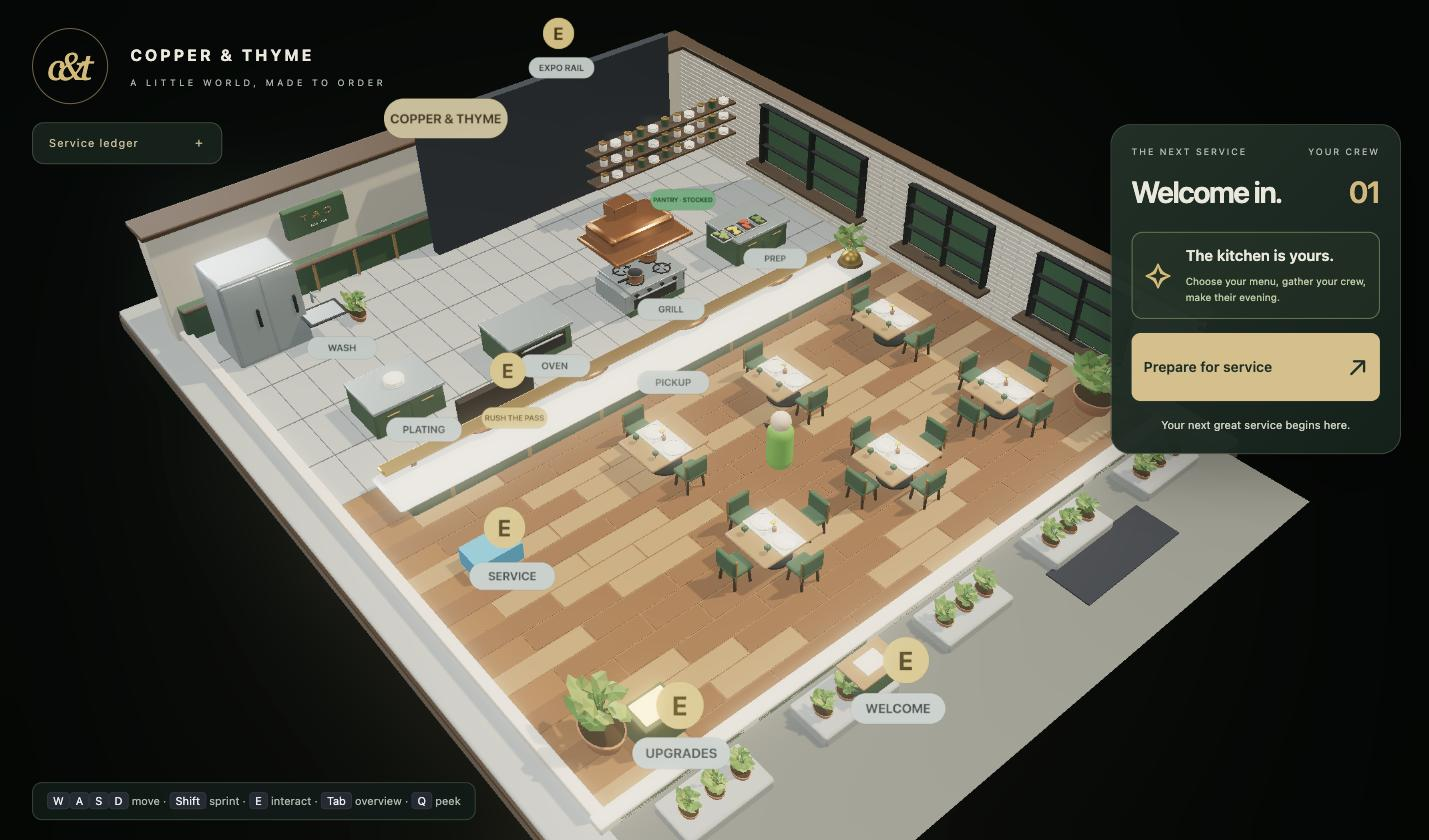
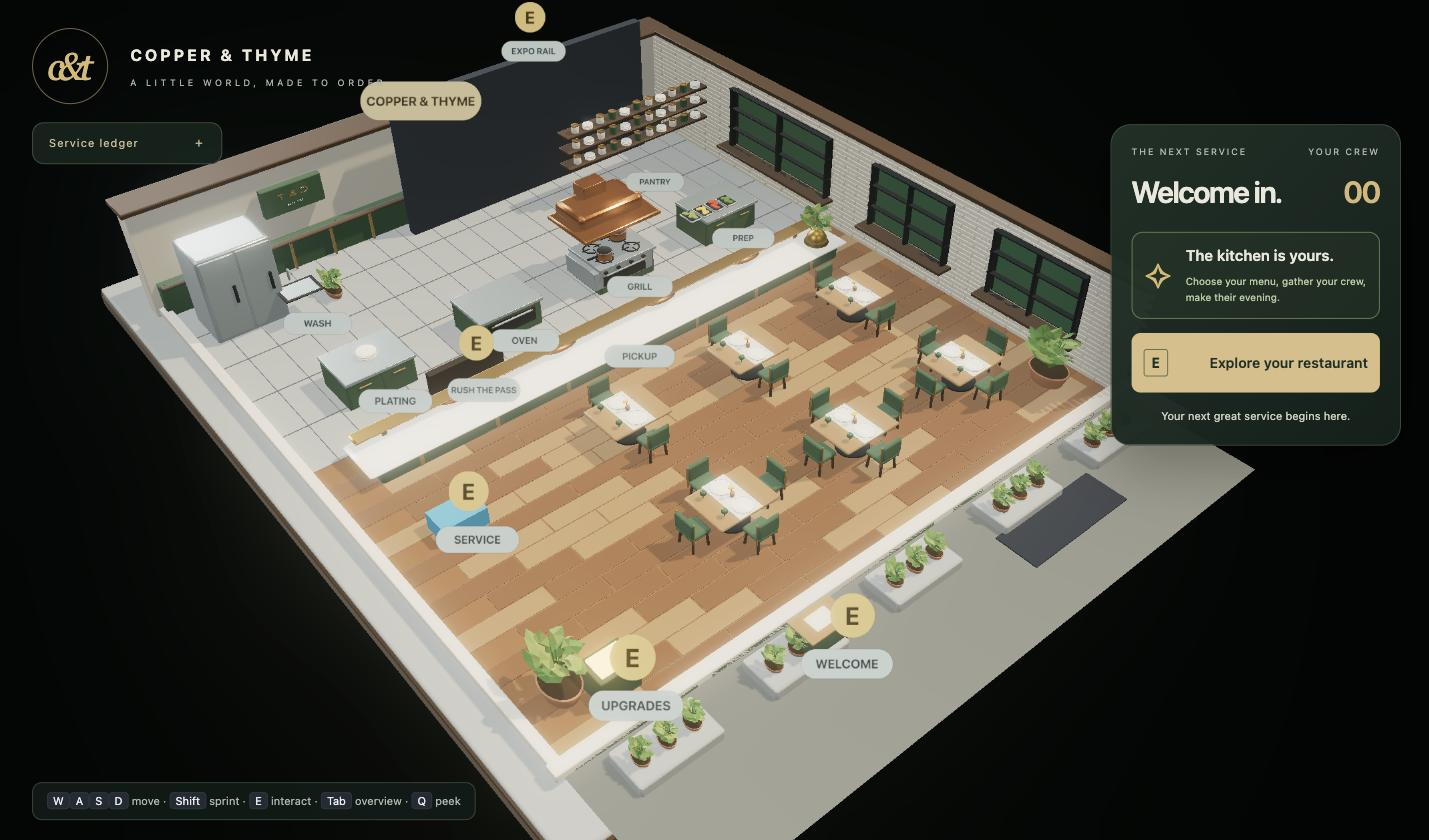
STORY-059: fix shadow-frustum math, bloom-resize units, and Tab overlay overlap
Three correctness fixes found on review of the initial pass:

1. Shadow camera frustum bounds are in the light's own (rotated) view
   space, not world x/z — keyLight sits at (-12, 18, -6) aiming at the
   origin, so its basis is off-axis in plan. The first attempt
   (left:-11/right:11/top:14/bottom:-16) was derived by treating those
   bounds as world-aligned and clipped the real floor's far corners.
   Re-derived the actual view-space projection of the floor's 4 corners
   (worst case ~±14.8 on x, ~±10.8 at floor level / ~+13.7 for a 5m-tall
   prop on top/bottom) and retightened to left:-16/right:16/top:14/
   bottom:-16 — safely covers the real floor with margin, still ~1.5x
   the shadow-map texel density of the original ±18/+20/-20.

2. UnrealBloomPass sizing: EffectComposer.addPass() immediately resets
   a newly-added pass to the composer's full effective resolution
   (container size * devicePixelRatio), so the constructor's halved
   size was being silently overwritten the moment addPass(bloomPass)
   ran, before the first frame — it only "worked" because the initial
   ResizeObserver callback happened to land first. Now explicitly
   re-applies the halved size right after addPass. Also fixed a units
   mismatch in handleResize: it was passing raw CSS-pixel width/height
   instead of the pixelRatio-scaled basis EffectComposer.setSize()
   actually uses internally, which under-cut the intended halving.
[…]

diff --git a/client/src/game/SceneManager.ts b/client/src/game/SceneManager.ts
@@ -47,11 +47,15 @@ export class SceneManager {
     this.results = results;
     this.active = this.restaurant.scene;
 
-    // STORY-059: native MSAA (`antialias: true`) and a full-resolution `UnrealBloomPass` were
-    // running together every frame — largely wasted cost, since the bloom pass's own blur
-    // already hides the AA seams it would otherwise smooth. Antialiasing now comes only from the
-    // composer's `OutputPass` + the softness of the bloom pass itself; see the bloom pass
-    // construction below for the matching resolution cut.
+    // STORY-059: `antialias: true` on the base renderer was pure wasted cost, not a real
+    // trade-off — this whole scene ALWAYS renders through `EffectComposer` below (`start()`
+    // calls `composer.render()`, never `renderer.render()` directly), and `EffectComposer`'s own
+    // render targets are plain `WebGLRenderTarget`s created with no multisample `samples` option
+    // (see its constructor: `new WebGLRenderTarget(width, height, { type: HalfFloatType })`).
+    // `RenderPass` draws the scene into that non-multisampled target, so the canvas's own MSAA
+    // (what `antialias: true` buys) was never actually applied to the composited output in the
+    // first place — this flag was silently inert the whole time. Turning it off is a free win,
+    // not a quality trade.
     this.renderer = new THREE.WebGLRenderer({ antialias: false });
     configureRestaurantRenderer(this.renderer, this.restaurant.scene);
     // STORY-059: was capped at 2 — every rendering cost above (shadow map, bloom, base shading)
@@ -94,23 +98,31 @@ export class SceneManager {
     // A restrained threshold keeps practical lights and authored Glow materials luminous while
     // leaving UI sprites and most matte surfaces crisp. The pass is intentionally subtle so the
     // scene gains the warm AAA catchlight from the reference without becoming hazy.
-    // STORY-059: `UnrealBloomPass` already halves whatever resolution it's given for its own
-    // internal mip chain (see its constructor), so passing the full container size here meant
-    // the blur chain's brightest render target was already running at half-container. Passing
-    // HALF the container size instead drops that internal target to a quarter of the container's
-    // area — ~4x less shader work for the whole 5-mip blur/composite chain — and the effect stays
-    // visually identical because bloom is a soft, low-frequency effect by nature: the extra
-    // downsample is invisible once blurred back up. `strength`/`radius`/`threshold`
-    // (0.28/0.48/0.84) are UNCHANGED — those control the look, this only cuts cost.
-    this.bloomPass = new UnrealBloomPass(
-      new THREE.Vector2(container.clientWidth / 2, container.clientHeight / 2),
-      0.28,
-      0.48,
-      0.84,
+    // STORY-059: `UnrealBloomPass` already halves whatever `resolution` it's given for its own
+    // internal mip chain (see its constructor: `resx = Math.round(resolution.x / 2)`), so its
+    // brightest render target was already running at half of whatever we pass in. Passing HALF
+    // of `EffectComposer`'s own effective resolution (`container size * devicePixelRatio` — the
+    // SAME basis `EffectComposer.setSize` uses internally, see `handleResize` below) drops that
+    // internal target to a quarter of the composer's effective area — ~4x less shader work for
+    // the whole 5-mip blur/composite chain — and stays visually identical because bloom is a
+    // soft, low-frequency effect by nature: the extra downsample is invisible once blurred back
+    // up. `strength`/`radius`/`threshold` (0.28/0.48/0.84) are UNCHANGED — those control the
+    // look, this only cuts cost.
+    const bloomResolution = new THREE.Vector2(
+      (container.clientWidth * this.renderer.getPixelRatio()) / 2,
+      (container.clientHeight * this.renderer.getPixelRatio()) / 2,
     );
+    this.bloomPass = new UnrealBloomPass(bloomResolution, 0.28, 0.48, 0.84);
     this.composer.addPass(this.renderPass);
     this.composer.addPass(this.bloomPass);
     this.composer.addPass(new OutputPass());
+    // `EffectComposer.addPass` immediately calls `pass.setSize(effectiveWidth, effectiveHeight)`
+    // on whatever's just been added — using the composer's FULL effective resolution, which
+    // would silently override the halved size passed to the constructor above the moment
+    // `addPass(this.bloomPass)` ran, before this class's own `ResizeObserver` ever fires. Re-set
+    // it explicitly right here so the cost cut is in effect from the very first rendered frame,
+    // not only after whatever async timing the initial resize observation happens to land on.
+    this.bloomPass.setSize(bloomResolution.x, bloomResolution.y);
 
     this.resizeObserver = new ResizeObserver(() => this.handleResize());
     this.resizeObserver.observe(container);
@@ -130,11 +142,14 @@ export class SceneManager {
     const height = Math.max(1, this.container.clientHeight);
     this.renderer.setSize(width, height);
     this.composer.setSize(width, height);
-    // STORY-059: `EffectComposer.setSize` just reset every pass — including `bloomPass` — to the
-    // FULL container resolution (it calls `pass.setSize(width, height)` uniformly for all
-    // passes). Re-apply the halved resolution chosen at construction time so a window resize
-    // doesn't silently undo the bloom cost cut.
-    this.bloomPass.setSize(width / 2, height / 2);
+    // STORY-059: `EffectComposer.setSize(width, height)` internally resizes every pass —
+    // `bloomPass` included — to `width * pixelRatio` x `height * pixelRatio` (its own
+    // "effective" resolution basis), NOT the raw CSS-pixel `width`/`height` passed in. Re-apply
+    // the halved resolution in that SAME basis (matching how it was constructed above) so a
+    // window resize doesn't silently undo — or under-cut, via a units mismatch — the bloom cost
+    // saving.
+    const pixelRatio = this.renderer.getPixelRatio();
+    this.bloomPass.setSize((width * pixelRatio) / 2, (height * pixelRatio) / 2);
     this.cameraController.setAspect(width / height);
   }
 

diff --git a/client/src/scenes/RestaurantScene.ts b/client/src/scenes/RestaurantScene.ts
@@ -862,18 +862,25 @@ export class RestaurantScene {
     this.keyLight.castShadow = true;
     this.keyLight.shadow.mapSize.set(2048, 2048);
     this.keyLight.shadow.radius = 4;
-    // STORY-059: this frustum used to be left:-18/right:18/top:20/bottom:-20 — roughly DOUBLE the
-    // real playable floor (`shared/game-data/restaurant-layout.json`'s `bounds`: x -9..9, z
-    // -12..12, an 18x24 area), which wastes shadow-map texel density across empty space no
-    // gameplay ever occupies. Tightened to x -11..11 (2-unit margin past the x bounds for the
-    // host stand/wayfinding signage that sits right at the wall) and z +14/-16 (2-unit margin on
-    // the kitchen side at z=12, 4-unit margin on the street side at z=-12 since that's also the
-    // direction of the rival restaurant's slab/sign/tables, `buildCompetitor()`'s z -20..-31 —
-    // still not fully covered by this frustum, same as before this change, so tightening further
-    // here is not a NEW regression for the rival's own shadow coverage). At the SAME 2048
-    // resolution this reads sharper, not worse — confirmed via before/after screenshot in the
-    // STORY-059 implementation notes.
-    Object.assign(this.keyLight.shadow.camera, { left: -11, right: 11, top: 14, bottom: -16, near: 1, far: 60 });
+    // STORY-059: this frustum used to be left:-18/right:18/top:20/bottom:-20. IMPORTANT: these
+    // bounds are in the shadow camera's OWN view space, not world x/z — `keyLight` sits at
+    // (-12, 18, -6) aiming at the origin, so its view basis is rotated off the world axes in
+    // plan (not axis-aligned). Working out the actual basis (z_cam = normalize(light - target),
+    // x_cam = normalize(worldUp × z_cam)) and projecting the real floor's 4 corners
+    // (`shared/game-data/restaurant-layout.json`'s `bounds`: x -9..9, z -12..12) onto it: the
+    // worst-case corners land at left/right ≈ ±14.8 (x_cam has a zero world-y component, so
+    // standing height never makes this worse) and top/bottom ≈ ±10.8 at floor level, growing to
+    // ≈ +13.7 at the top for a ~5m-tall prop. (A first pass at ±11/top:14/bottom:-16 clipped the
+    // real floor's far corners on x — caught only by re-deriving this math, since the resulting
+    // shadow loss reads as the floor going flatter there, not as a visible hard edge.) Tightened
+    // to left:-16/right:16 (~1.2 margin past the ±14.8 requirement) and top:14/bottom:-16 (top
+    // has ~0.3 margin past the ~13.7 tall-prop case; bottom has generous margin toward the
+    // street/rival side — the rival's slab at `buildCompetitor()`'s z -20..-31 was never fully
+    // covered even by the OLD bottom:-20, so -16 here is not a new regression there). Net area
+    // 32×30=960 vs the original 36×40=1440 — about 1.5x shadow-map texel density at the SAME
+    // 2048 resolution, a real if more modest win than a naive (and wrong) world-space reading of
+    // the old numbers would suggest.
+    Object.assign(this.keyLight.shadow.camera, { left: -16, right: 16, top: 14, bottom: -16, near: 1, far: 60 });
     this.keyLight.shadow.normalBias = 0.035;
     this.keyLight.shadow.bias = -0.0002;
     // STORY-059: was 0.65 — darkened alongside `ambient` above, same reasoning.

diff --git a/client/src/styles/app.css b/client/src/styles/app.css
@@ -2526,3 +2526,36 @@ button.service-card-action { cursor:pointer; }
 @media(max-width:700px) { .service-notifications { left:12px; bottom:64px; width:calc(100vw - 24px); } .app:has(.hud-alerts) .service-notifications { bottom:190px; } .service-notifications .event-banner { grid-template-columns:28px minmax(0,1fr) auto 22px; column-gap:9px; } .command-controls > summary span { display:none; } }
 @media(max-height:650px) and (min-width:701px) { .service-notifications { width:350px; } .app:has(.hud-alerts) .service-notifications { bottom:170px; } }
 @media(prefers-reduced-motion:reduce) { .command-metric progress::-webkit-progress-value { transition:none; } }
+
+/* STORY-059: `HudPanel.tsx`'s `.command-scorecard` and `TacticalOverviewPanel.tsx`'s
+   `.tactical-overview` now share the exact same `status.showTacticalOverview` toggle (that was
+   the whole point of the fix — see `HudPanel.tsx`'s own comment on why), so unlike before this
+   story, they can now be visible AT THE SAME TIME. Pre-existing standalone positioning —
+   `.command-scorecard` pinned top-right, `.tactical-overview` centered — collided badly: the
+   centered overview's right-hand value column landed directly under the top-right card. Give
+   them a stacked, non-overlapping layout ONLY in this combined state (their independent
+   positioning elsewhere — e.g. `.kitchen-command-board .command-scorecard`'s own E-press
+   overlay — is untouched): the Command Center becomes a compact top banner (its own
+   `.command-objective-disclosure` detail hidden — that's the tallest single element and it adds
+   little beyond what `.tactical-overview`'s own constraint-diagnosis columns already say), and
+   the Tactical Overview anchors from the bottom with its height capped to the remaining space,
+   instead of being vertically centered and free to grow into the reserved top band. Placed at
+   the end of the stylesheet so it wins the cascade over the earlier width/position rules at
+   every breakpoint above (`.command-scorecard`'s own `@media` overrides included) without
+   needing `!important`. */
+.app:has(.tactical-overview) .command-scorecard {
+  top: 16px;
+  right: auto;
+  left: 50%;
+  transform: translateX(-50%);
+  width: min(960px, 92vw);
+  padding: 14px 22px;
+}
+.app:has(.tactical-overview) .command-scorecard .command-objective-disclosure { display: none; }
+.app:has(.tactical-overview) .tactical-overview {
+  top: auto;
+  bottom: 16px;
+  left: 50%;
+  transform: translateX(-50%);
+  max-height: calc(100vh - 250px);
+}
